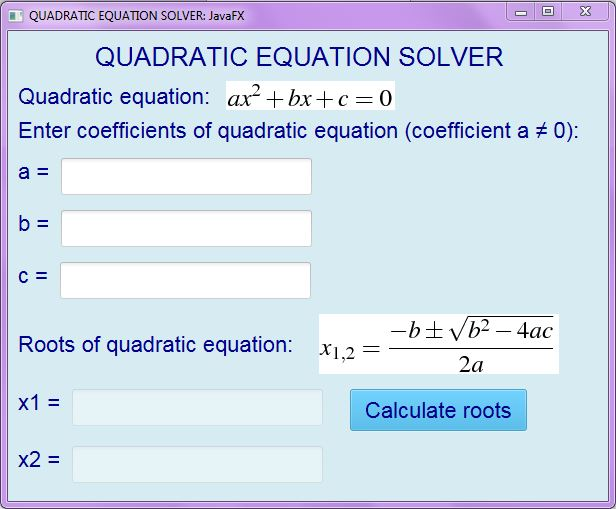
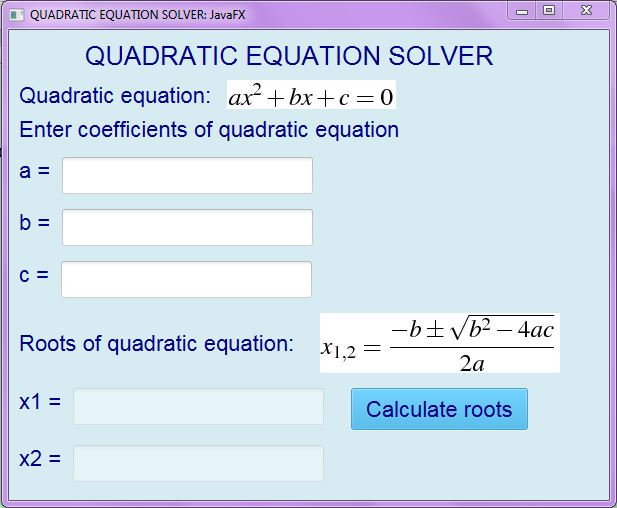
added handling exceptions

diff --git a/src/javaprojekt/QuadraticEquationCalculator.java b/src/javaprojekt/QuadraticEquationCalculator.java
@@ -72,7 +72,7 @@ public class QuadraticEquationCalculator {
 
         HBox hboxEnterCoefficients=new HBox();
         hboxEnterCoefficients.setPadding(new Insets(30,0,0,0));
-        Label labelEnterCoefficients=new Label("Enter coefficients of quadratic equation (coefficient a \u2260 0):");
+        Label labelEnterCoefficients=new Label("Enter coefficients of quadratic equation");
         labelEnterCoefficients.setStyle("-fx-font: 22 arial; -fx-font-weight: normal; -fx-text-fill: darkblue");
         hboxEnterCoefficients.getChildren().add(labelEnterCoefficients);
 
@@ -116,11 +116,26 @@ public class QuadraticEquationCalculator {
             final BigDecimal a = convertStringToBigDecimal(coefficientA.getText());
             final BigDecimal b = convertStringToBigDecimal(coefficientB.getText());
             final BigDecimal c = convertStringToBigDecimal(coefficientC.getText());
-            final List<BigDecimal> solutions = RootsOfQuadraticEquation.calculateSolutionsOfEquation(a, b, c);
-            rootX1.setText(solutions.get(0).toPlainString());
-            rootX1.setDisable(false);
-            rootX2.setText(solutions.get(1).toPlainString());
-            rootX2.setDisable(false);
+            try {
+                final List<BigDecimal> solutions = RootsOfQuadraticEquation.calculateSolutionsOfEquation(a, b, c);
+                rootX1.setText(solutions.get(0).toPlainString());
+                rootX1.setDisable(false);
+                // checking if an equation has two solutions x1 and x2 (which can be equal to each other)
+                if (solutions.size()>1){
+                    rootX2.setText(solutions.get(1).toPlainString());
+                    rootX2.setDisable(false);
+                } else {
+                    rootX2.setText("-");
+                    rootX2.setDisable(true);
+                }
+            }
+            catch (NumberFormatException nfe){
+                rootX1.setText("-");
+                rootX1.setDisable(true);
+                rootX2.setText("-");
+                rootX2.setDisable(true);
+            }
+
 
         });
         hboxEquationRootX1.getChildren().addAll(labelRootX1,rootX1,new Label("   "),calculateRootsButton);

diff --git a/src/javaprojekt/RootsOfQuadraticEquation.java b/src/javaprojekt/RootsOfQuadraticEquation.java
@@ -1,6 +1,7 @@
 package javaprojekt;
 
 import java.math.BigDecimal;
+import java.math.MathContext;
 import java.math.RoundingMode;
 import java.util.ArrayList;
 import java.util.List;
@@ -25,14 +26,22 @@ public class RootsOfQuadraticEquation {
     public static List<BigDecimal> calculateSolutionsOfEquation(
             final BigDecimal a, final BigDecimal b, final BigDecimal c){
         final List<BigDecimal> solutions=new ArrayList<>();
-        final BigDecimal rootX1=
-                calculateDenominatorWithAddition(a,b,c).
-                        divide(calculateDenominator(a), RoundingMode.HALF_UP);
-        solutions.add(rootX1);
-        final BigDecimal rootX2=
-                calculateDenominatorWithSubstraction(a, b, c).
-                        divide(calculateDenominator(a),RoundingMode.HALF_UP);
-        solutions.add(rootX2);
+        // checking if equation is not quadratic or linear
+        if (b.compareTo(BigDecimal.ZERO)==0 && a.compareTo(BigDecimal.ZERO)==0){
+            throw new NumberFormatException("at least one of coefficients of x terms must not be equal to 0");
+        // checking if equation is linear. In this case solution of equation is x1= -c/b.
+        } else if (a.compareTo(BigDecimal.ZERO)==0){
+            solutions.add(c.setScale(MathContext.DECIMAL64.getPrecision()).negate().divide(b,RoundingMode.HALF_UP));
+        } else {
+            final BigDecimal rootX1 =
+                    calculateDenominatorWithAddition(a, b, c).
+                            divide(calculateDenominator(a), RoundingMode.HALF_UP);
+            solutions.add(rootX1);
+            final BigDecimal rootX2 =
+                    calculateDenominatorWithSubstraction(a, b, c).
+                            divide(calculateDenominator(a), RoundingMode.HALF_UP);
+            solutions.add(rootX2);
+        }
         return solutions;
     }
 
